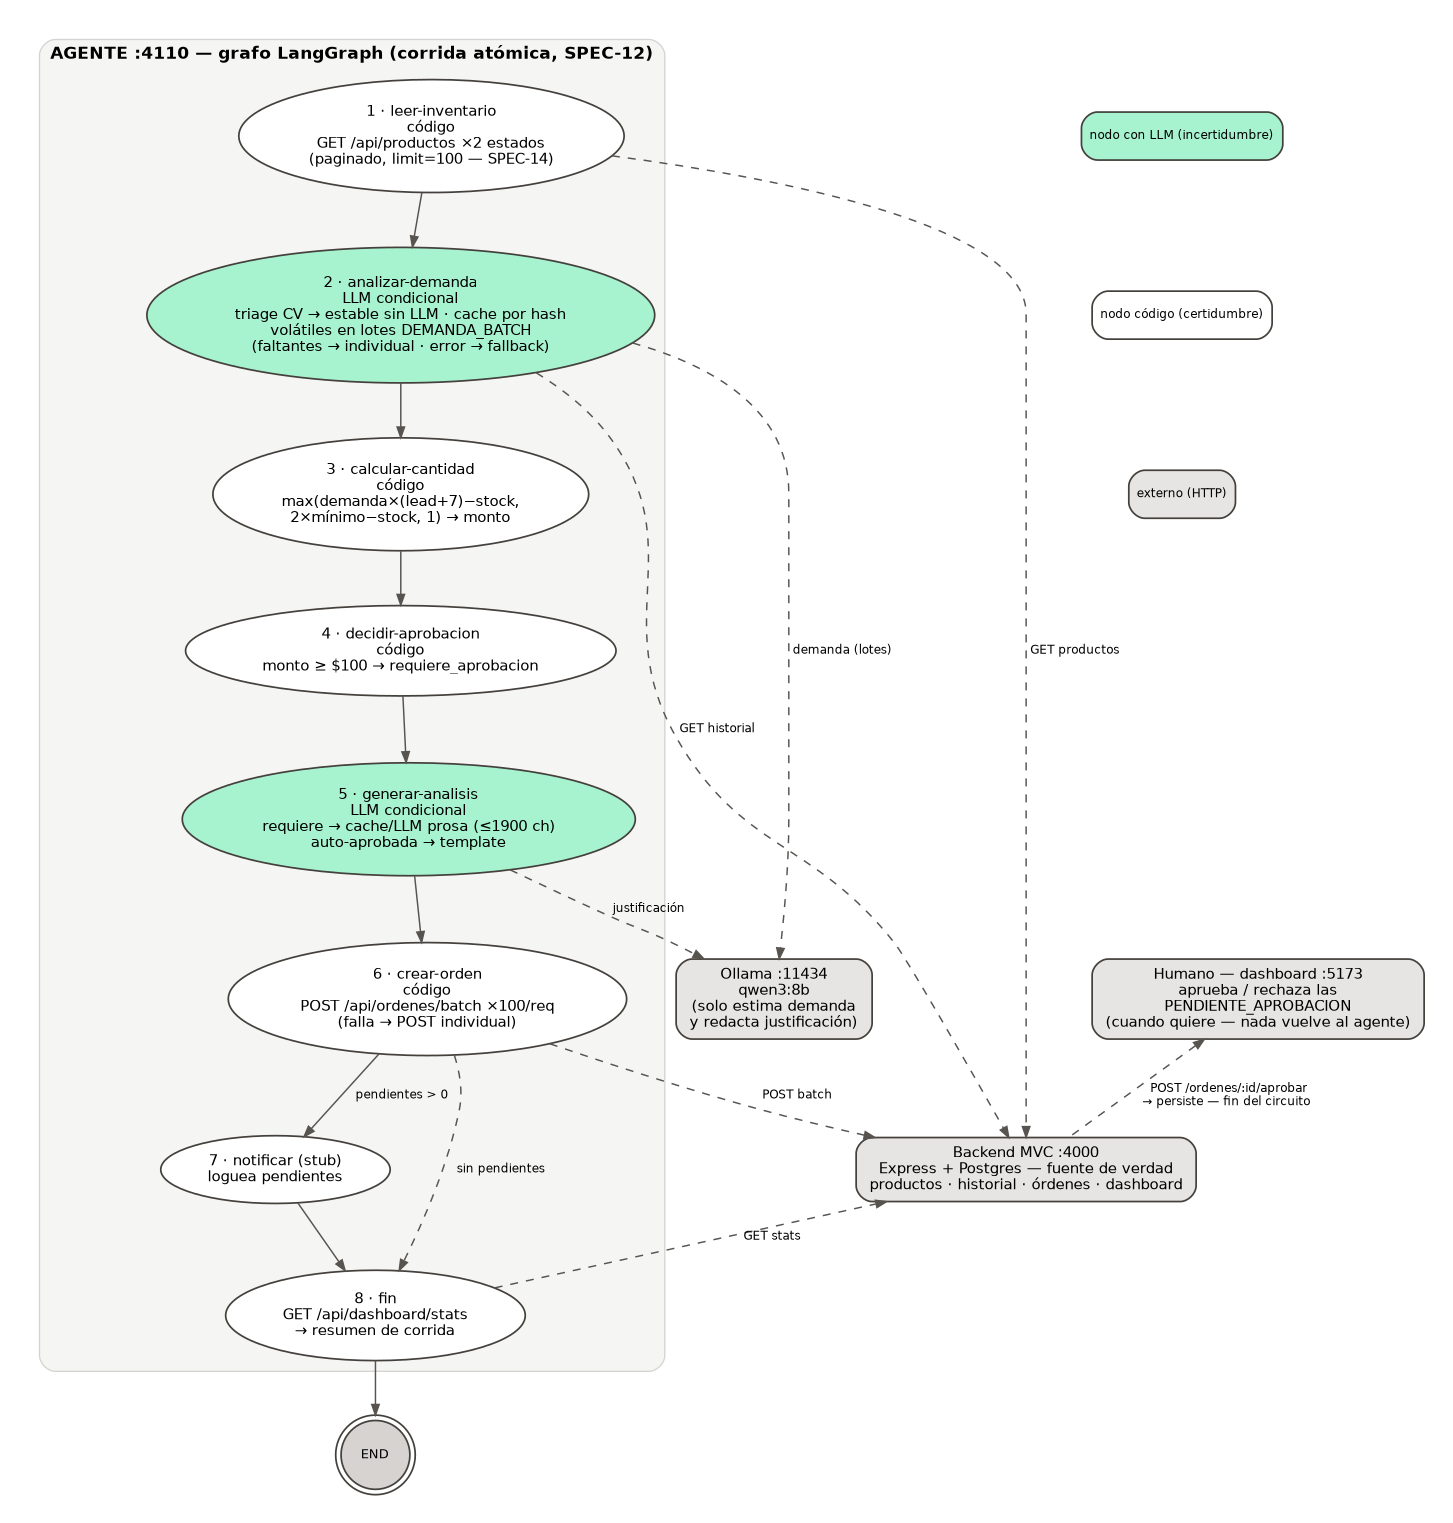
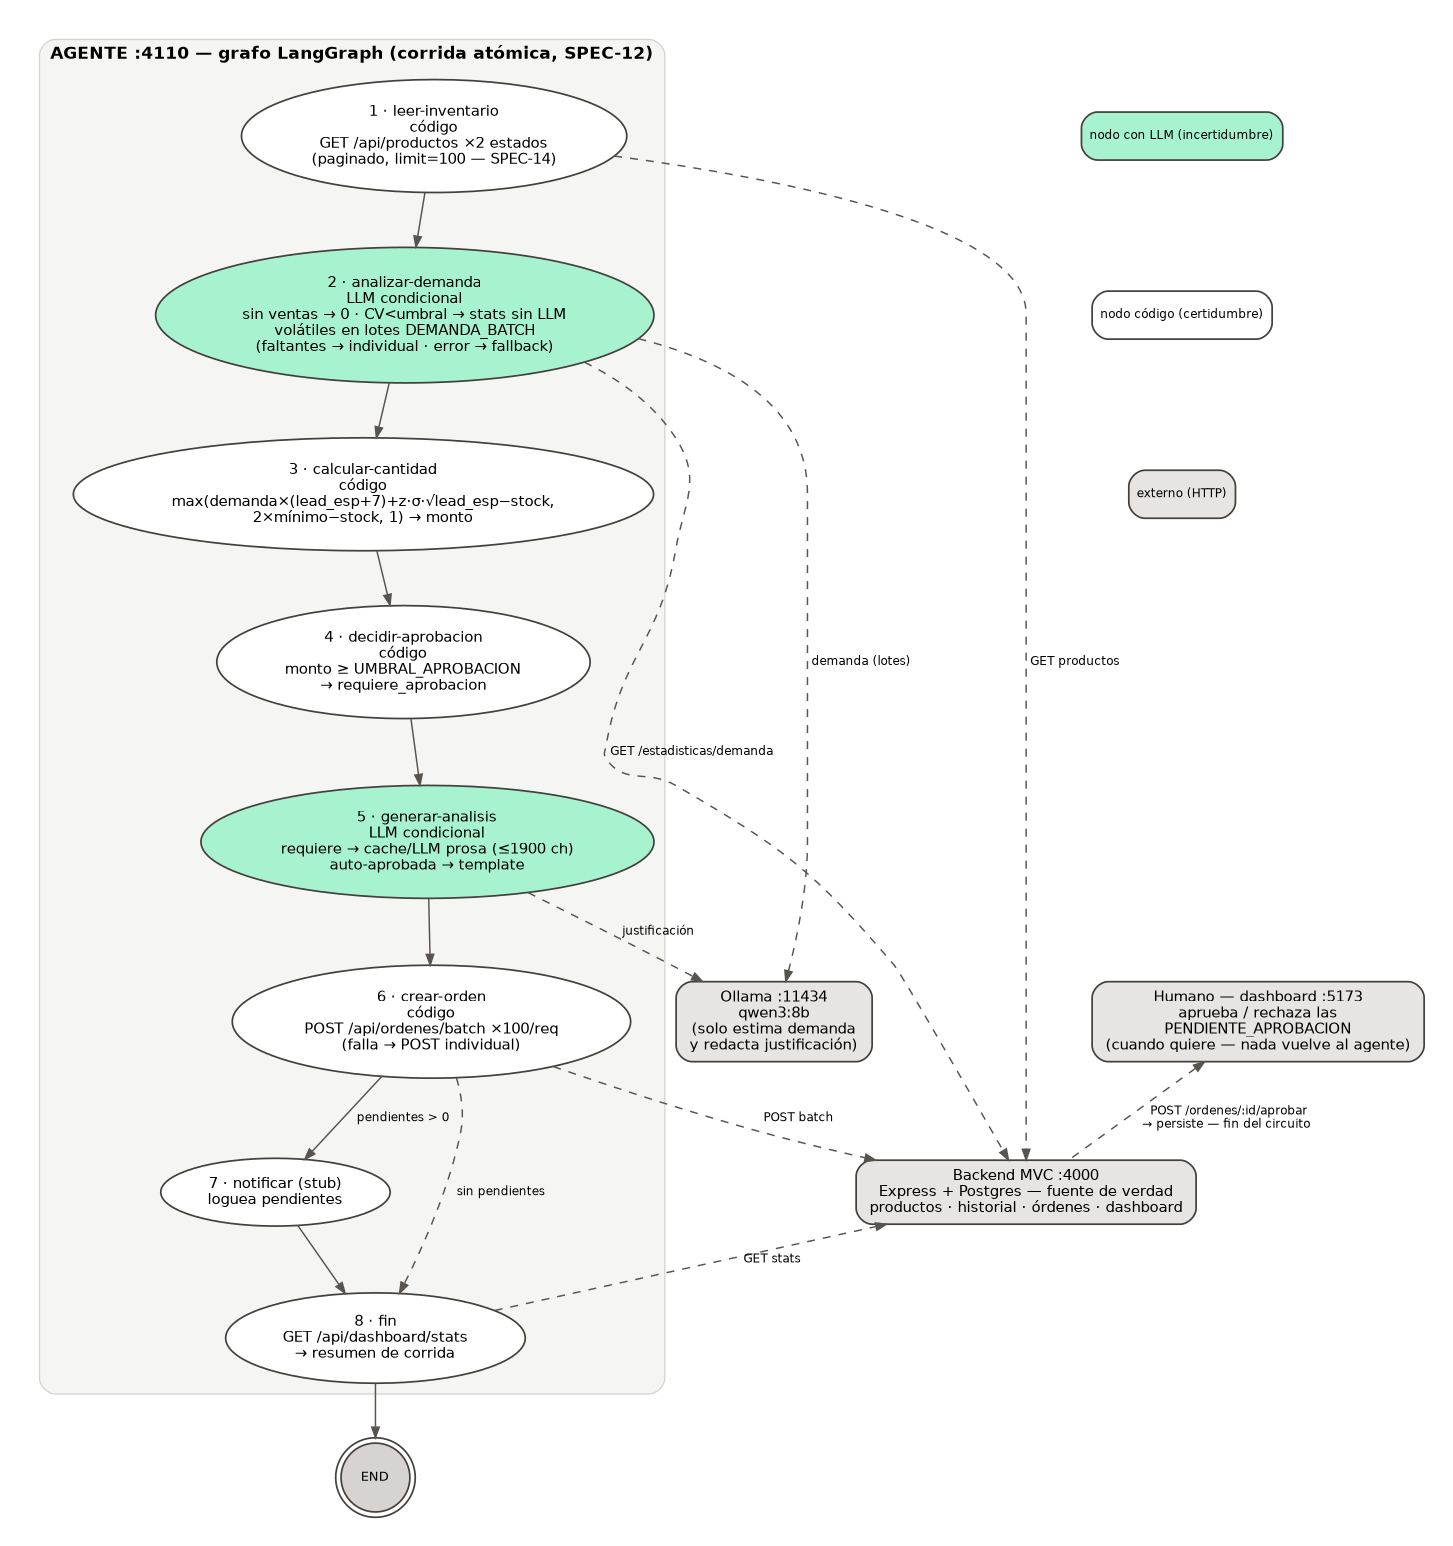
fix(harness): correcciones del review T26.6
- generar-analisis strippea desvio_demanda antes del cache: σ es dato
  del backend, no output del LLM — sin strip los dos caches quedaban
  ciegos para productos volátiles (mismoAnalisis nunca matcheaba)
- prepararUno fail-soft: un 404/500 del endpoint ya no tumba la
  corrida — demanda 0 + error visible, hash null saltea el cache
- DEMANDA_DIAS clampeado a 7–365 (rango que acepta el backend)
- stress-llm.mjs al shape de stats + fórmula con lead esperado y SS
- diagramas flujo-agente regenerados (.dot + svg + png)
- tests: strip de σ en cache de justificación, cache-hit con σ
  fresco, mocks reseteados por implementación en beforeEach

diff --git a/harness-langgraph/tests/nodes/triage-y-justificacion.test.js b/harness-langgraph/tests/nodes/triage-y-justificacion.test.js
@@ -70,6 +70,11 @@ const stats = ({ demanda = 5, cv = 0.1, diasConVenta = 30, desvio = 1.5 } = {}) 
 
 beforeEach(() => {
   vi.clearAllMocks();
+  // mockClear no resetea implementaciones — restaurar los defaults
+  // del módulo para que un mockResolvedValue no contamine el test
+  // siguiente.
+  cacheFns.buscarDemanda.mockResolvedValue(null);
+  cacheFns.buscarJustificacion.mockResolvedValue(null);
   metrics.iniciarCorrida();
 });
 
@@ -90,6 +95,20 @@ describe('analizar-demanda — triage heurístico (SPEC-12/R26.8)', () => {
     expect(metrics.resumen().conteo_fallbacks).toBe(0);
     // el triage no toca el cache — el input no pasó por el LLM
     expect(cacheFns.guardarDemanda).not.toHaveBeenCalled();
+  });
+
+  it('cache hit: reuso del análisis con σ fresco del stats actual', async () => {
+    estadisticaDemanda.mockResolvedValue(stats({ cv: 0.6, desvio: 3.3 }));
+    cacheFns.buscarDemanda.mockResolvedValue({
+      demanda_diaria: 7, tendencia: 'bajando', observacion: 'cacheada',
+    });
+    const { analisisPorProducto } = await analizarDemanda({ productosBajos: [producto(1)] });
+
+    expect(invokeJson).not.toHaveBeenCalled();
+    expect(invokeBatch).not.toHaveBeenCalled();
+    expect(analisisPorProducto[1].demanda_diaria).toBe(7);
+    expect(analisisPorProducto[1].desvio_demanda).toBe(3.3); // σ del stats actual, no del cache
+    expect(metrics.resumen().cache_hits).toBe(1);
   });
 
   it('sin ventas en la ventana: demanda 0 determinística, sin LLM ni cache', async () => {
@@ -218,7 +237,8 @@ describe('analizar-demanda — triage heurístico (SPEC-12/R26.8)', () => {
 describe('generar-analisis — justificación condicional (SPEC-12)', () => {
   const stateBase = (requiere) => ({
     productosBajos: [producto(1)],
-    analisisPorProducto: { 1: { demanda_diaria: 5, tendencia: 'estable', observacion: 'ok' } },
+    analisisPorProducto: { 1: { demanda_diaria: 5, tendencia: 'estable', observacion: 'ok', desvio_demanda: 1.5 } },
+    hashPorProducto: { 1: 'hash-fake' },
     decisionPorProducto: { 1: { cantidad: 30, monto_total: requiere ? 300 : 30, requiere_aprobacion: requiere } },
   });
 
@@ -233,6 +253,20 @@ describe('generar-analisis — justificación condicional (SPEC-12)', () => {
     expect(invokeTexto).toHaveBeenCalledTimes(1);
     expect(decisionPorProducto[1].analisis_ia).toContain('demanda');
     expect(metrics.resumen().llm_evitadas).toBe(0);
+  });
+
+  it('σ se excluye del cache de justificación — el cache guarda solo output LLM', async () => {
+    // El análisis en estado lleva desvio_demanda (dato del backend) —
+    // si se pasara tal cual al cache, mismoAnalisis nunca matchearía
+    // contra la demanda cacheada (sin σ) y ambos caches quedarían
+    // ciegos. El strip es la regresión cubierta acá.
+    cacheFns.buscarJustificacion.mockResolvedValue('Justificación cacheada.');
+    const { decisionPorProducto } = await generarAnalisis(stateBase(true));
+
+    expect(decisionPorProducto[1].analisis_ia).toBe('Justificación cacheada.');
+    const [, , analisisConsultado] = cacheFns.buscarJustificacion.mock.calls[0];
+    expect(analisisConsultado).not.toHaveProperty('desvio_demanda');
+    expect(analisisConsultado).toMatchObject({ demanda_diaria: 5, tendencia: 'estable' });
   });
 
   it('orden auto-aprobada: template marcado, sin llamar al LLM', async () => {

diff --git a/harness-langgraph/src/langgraph/nodes/generar-analisis.js b/harness-langgraph/src/langgraph/nodes/generar-analisis.js
@@ -43,8 +43,13 @@ async function justificarUno(state, p) {
   // demanda → misma cantidad/monto) → la justificación también es
   // la misma; reusarla ahorra la llamada más cara del grafo.
   const hash = state.hashPorProducto?.[p.id];
+  // σ es dato del backend adjuntado al estado (SPEC-26), no output
+  // del LLM — el cache solo persiste {demanda_diaria,tendencia,
+  // observacion}: sin strip, mismoAnalisis nunca matchea y los dos
+  // caches quedan ciegos para los productos volátiles.
+  const { desvio_demanda: _sigma, ...analisisBase } = analisis;
   // Cache fail-soft: un read caído es un miss, no aborta la corrida.
-  const cacheada = hash ? await buscarJustificacion(p.id, hash, analisis).catch(() => null) : null;
+  const cacheada = hash ? await buscarJustificacion(p.id, hash, analisisBase).catch(() => null) : null;
   if (cacheada) {
     metrics.cacheHit();
     log(`  ${p.sku}: justificación reusada del cache (input sin cambios)`);
@@ -65,7 +70,7 @@ async function justificarUno(state, p) {
     // El write al cache va fuera del try del LLM: una falla de
     // Postgres no debe descartar la justificación ya generada.
     if (hash) {
-      await guardarJustificacion(p.id, hash, analisis, respuesta).catch((e) =>
+      await guardarJustificacion(p.id, hash, analisisBase, respuesta).catch((e) =>
         log(`  ${p.sku}: cache write falló (${e.message}) — sigo sin cache`));
     }
     return { id: p.id, decision: { ...state.decisionPorProducto[p.id], analisis_ia: respuesta } };

diff --git a/harness-langgraph/src/harness/analisis-cache.js b/harness-langgraph/src/harness/analisis-cache.js
@@ -14,10 +14,12 @@
  * descartable, no fuente de verdad: si se trunca solo hay más
  * llamadas LLM la próxima corrida.
  *
- * El hash cubre TODO lo que entra a los prompts: ventas de la
- * ventana, campos del producto (sku, nombre, stock, precio, lead
- * time — un movimiento AJUSTE cambia stock sin tocar ventas) y la
- * config que afecta el resultado (modelo, umbrales).
+ * El hash cubre TODO lo que entra a los prompts: las estadísticas
+ * de demanda del backend (SPEC-26 — cualquier cambio en la ventana
+ * de ventas las mueve), campos del producto (sku, nombre, stock,
+ * precio, lead — un movimiento AJUSTE cambia stock sin tocar
+ * ventas) y la config que afecta el resultado (modelo, umbrales,
+ * demanda_dias).
  *
  * `analisis_llm` marca que `analisis` la produjo el LLM (no el
  * fallback heurístico): buscarDemanda lo exige, así si ayer el
@@ -78,7 +80,7 @@ const mismoAnalisis = (a, b) => canonico(a) === canonico(b);
 
 /**
  * Hash del input completo del LLM para un producto. Cualquier
- * diferencia en ventas, campos del producto o config → otra clave →
+ * diferencia en stats, campos del producto o config → otra clave →
  * cache miss (invalidación implícita, no hay TTL que mantener).
  * Función pura — sync a propósito.
  */

diff --git a/harness-langgraph/src/langgraph/nodes/analizar-demanda.js b/harness-langgraph/src/langgraph/nodes/analizar-demanda.js
@@ -78,7 +78,28 @@ function fallbackDesdeStats(stats) {
  * `pendiente` con el contexto para la fase de LLM.
  */
 async function prepararUno(p) {
-  const stats = await estadisticaDemanda(p.id);
+  let stats;
+  try {
+    stats = await estadisticaDemanda(p.id);
+  } catch (err) {
+    // Un producto borrado o un endpoint caído no debe tumbar la
+    // corrida: demanda 0 + error visible, el pedido mínimo lo
+    // decide calcular-cantidad. hash null → generar-analisis
+    // saltea el cache (no hay input que comparar).
+    metrics.fallback();
+    log(`  ${p.sku}: sin estadísticas (${err.message}) — demanda 0`);
+    return {
+      id: p.id,
+      hash: null,
+      analisis: {
+        demanda_diaria: 0,
+        tendencia: 'estable',
+        observacion: 'Estadísticas de demanda no disponibles',
+        desvio_demanda: 0,
+      },
+      error: `analizar-demanda(${p.sku}): ${err.message} — se usó demanda 0`,
+    };
+  }
   // SPEC-16: el hash cubre stats + producto + config — generar-
   // analisis lo reusa para cachear la justificación (mismo input).
   const hash = hashAnalisis(p, stats);

diff --git a/harness-langgraph/src/config/env.js b/harness-langgraph/src/config/env.js
@@ -81,7 +81,7 @@ export const config = {
    * Ventana de días para las estadísticas de demanda (SPEC-26):
    * el parámetro `dias` de /api/estadisticas/demanda.
    */
-  demandaDias: Math.max(7, Number(required('DEMANDA_DIAS', '90')) || 90),
+  demandaDias: Math.min(365, Math.max(7, Number(required('DEMANDA_DIAS', '90')) || 90)),
 
   /**
    * Factor z del stock de seguridad (SPEC-26, R26.8):

diff --git a/harness-langgraph/docs/flujo-datos.md b/harness-langgraph/docs/flujo-datos.md
@@ -7,11 +7,11 @@ Cada nodo devuelve campos que se funden en el estado:
 ```
 leer-inventario    → productosBajos: [ {id, sku, nombre, stock_actual,
                                         stock_minimo, precio_unitario,
-                                        proveedor:{id,nombre,tiempo_entrega_dias}, estado} ]
+                                        proveedor:{id,nombre,tiempo_entrega_dias,lead_dias_esperado}, estado} ]
                       (SPEC-14: pagina todas las páginas del backend, limit=100)
-analizar-demanda   → analisisPorProducto: { [id]: {demanda_diaria, tendencia, observacion} }
+analizar-demanda   → analisisPorProducto: { [id]: {demanda_diaria, tendencia, observacion, desvio_demanda} }
                       hashPorProducto: { [id]: hash del input }  (SPEC-16: cache)
-                      (triage SPEC-12: CV < UMBRAL_CV → promedio sin LLM;
+                      (triage SPEC-12: sin ventas → 0 · ≥3d y CV < UMBRAL_CV → stats del backend sin LLM;
                        SPEC-16: volátiles en lotes de DEMANDA_BATCH)
 calcular-cantidad  → decisionPorProducto: { [id]: {cantidad, monto_total} }
 decidir-aprobacion → decisionPorProducto: { [id]: {…, requiere_aprobacion} }

diff --git a/harness-langgraph/EXPLICACION.md b/harness-langgraph/EXPLICACION.md
@@ -52,9 +52,10 @@ leer-inventario → analizar-demanda → calcular-cantidad
 
 Optimizaciones SPEC-12 dentro de este recorrido:
 
-- `analizar-demanda`: si el CV de las ventas < `UMBRAL_CV` la
-  demanda se estima por promedio histórico — el LLM solo ve los
-  patrones volátiles.
+- `analizar-demanda`: sin ventas en la ventana → demanda 0; con
+  ≥3 días de venta y CV < `UMBRAL_CV` se usa la demanda ponderada
+  del backend (`/api/estadisticas/demanda`, SPEC-26) — el LLM solo
+  ve los patrones volátiles.
 - `decidir-aprobacion` corre **antes** de `generar-analisis`: la
   justificación en prosa solo se genera para las órdenes que el
   humano va a revisar; las auto-aprobadas llevan un template.

diff --git a/SPEC.md b/SPEC.md
@@ -1936,7 +1936,7 @@ manual de la migración (counts y muestras coinciden con
   (UTC; `null` cuando no hay movimientos — nunca inventado). Los días
   en quiebre se excluyen de los denominadores. Ventana anclada a
   `CURRENT_DATE` de la DB, no al host. 11 tests.
-- **T26.6** Harness: `ventas.client`, `analizar-demanda` y
+- **T26.6** Harness: `estadisticas.client`, `analizar-demanda` y
   `calcular-cantidad` sobre la nueva fuente + stock de seguridad
   (R26.8) + tests de nodos. ✅
   `estadisticas.client.js` (reemplaza `historial.client.js`):
